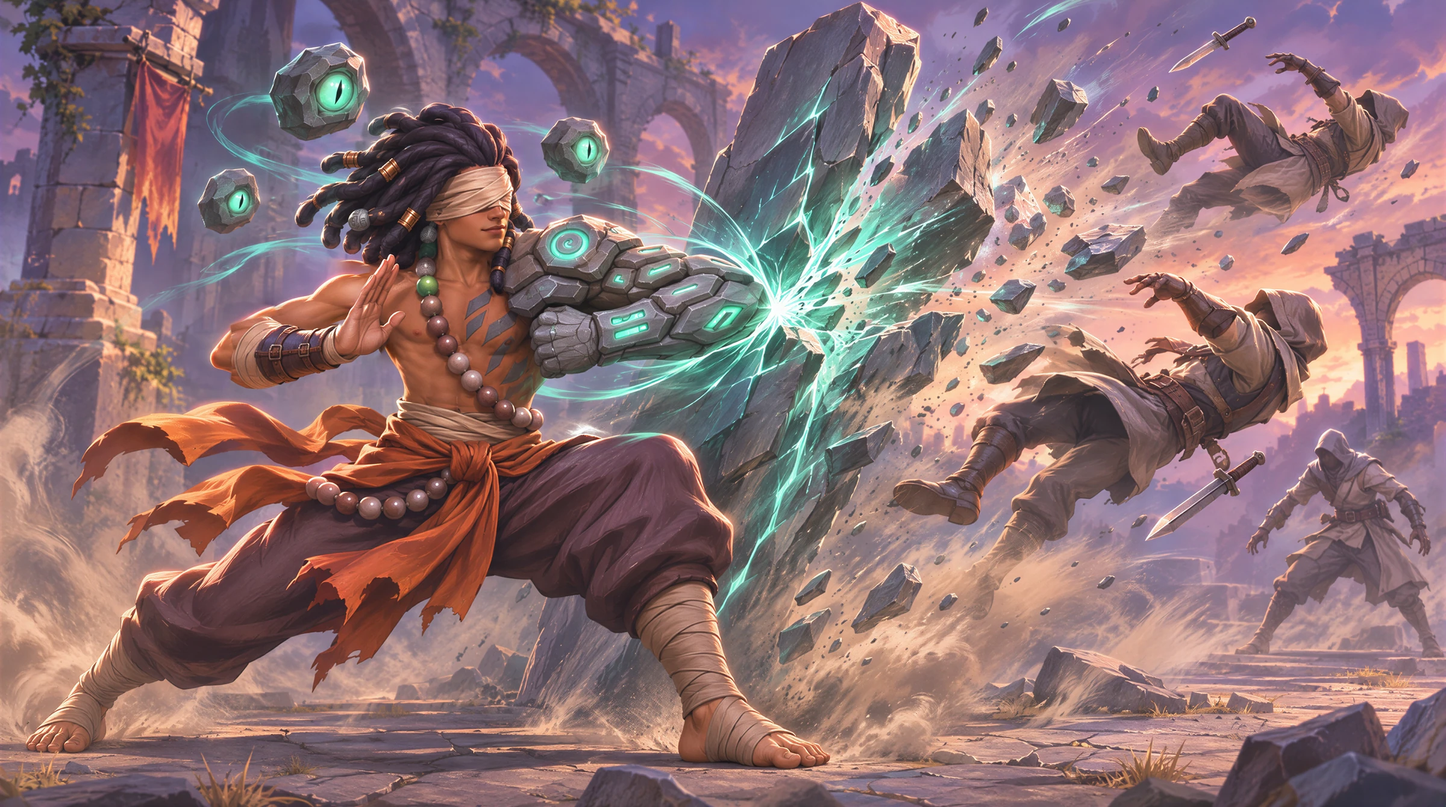
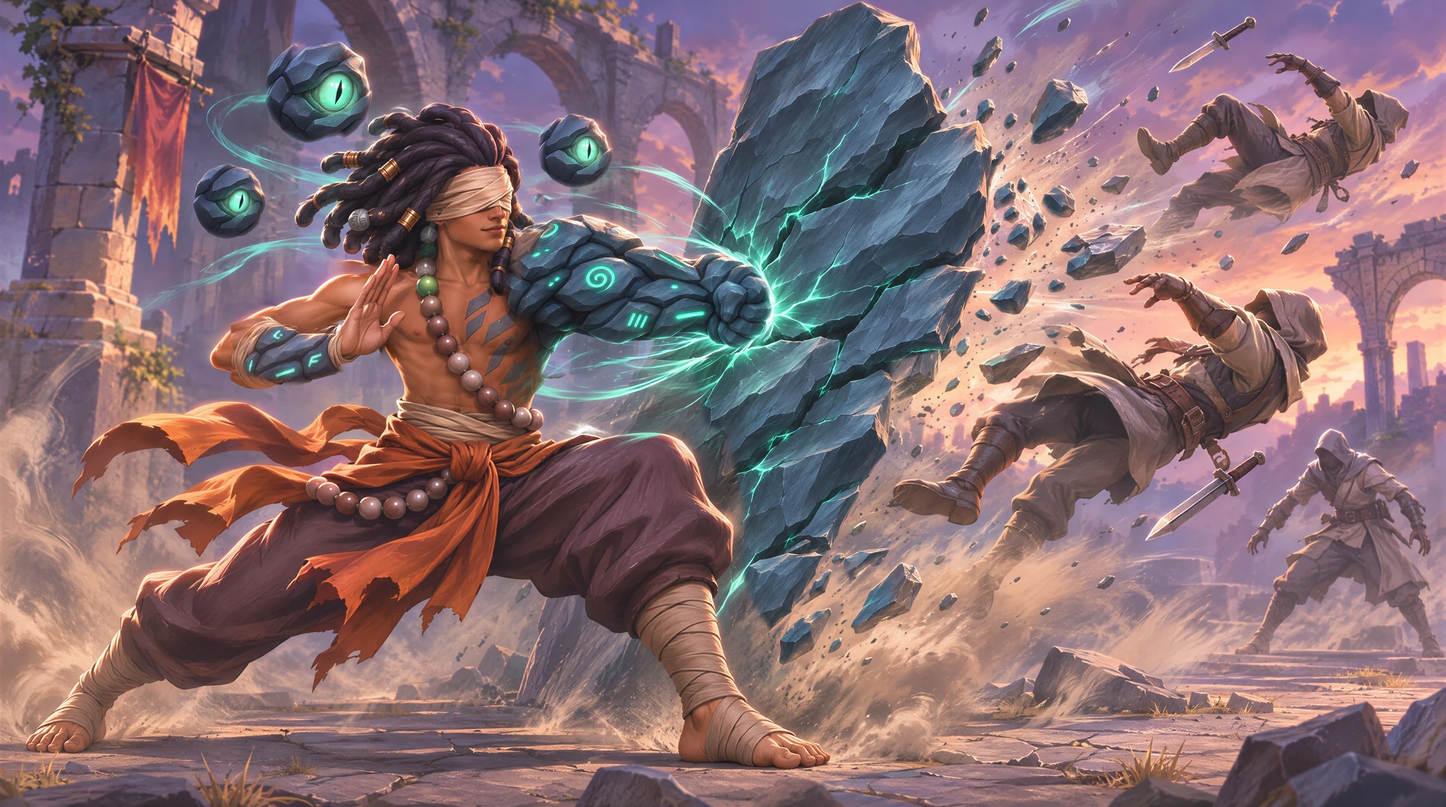
Hunter art update (cache bump 2026-11-15s44)
Claude-Session: https://claude.ai/code/session_01Fa986kEoxoUbsf7VZzVwQa

diff --git a/presskit.html b/presskit.html
@@ -11,7 +11,7 @@
 <link rel="apple-touch-icon" href="/assets/img/apple-touch-icon.png?v=2">
 <meta property="og:title" content="Project Boki press kit">
 <meta property="og:image" content="https://projectboki.com/assets/img/og.jpg?v=15">
-<link rel="stylesheet" href="assets/style.css?v=287">
+<link rel="stylesheet" href="assets/style.css?v=288">
 <link rel="canonical" href="https://projectboki.com/presskit.html">
 <link rel="manifest" href="/site.webmanifest">
 <script>
@@ -101,19 +101,19 @@
         </div>
         <h2>Hunter art</h2>
         <div class="pk-grid">
-          <a href="assets/img/hunters/lisette-2400.webp?v=2026-11-15s33" target="_blank"><img src="assets/img/hunters/lisette-960.webp?v=2026-11-15s33" alt="Lace splash art" loading="lazy"><span class="pk-cap">Lace</span></a>
-          <a href="assets/img/hunters/breaker-2400.webp?v=2026-11-15s33" target="_blank"><img src="assets/img/hunters/breaker-960.webp?v=2026-11-15s33" alt="Albert splash art" loading="lazy"><span class="pk-cap">Albert</span></a>
-          <a href="assets/img/hunters/vex-2400.webp?v=2026-11-15s33" target="_blank"><img src="assets/img/hunters/vex-960.webp?v=2026-11-15s33" alt="Vex splash art" loading="lazy"><span class="pk-cap">Vex</span></a>
-          <a href="assets/img/hunters/kael-2400.webp?v=2026-11-15s33" target="_blank"><img src="assets/img/hunters/kael-960.webp?v=2026-11-15s33" alt="Kael splash art" loading="lazy"><span class="pk-cap">Kael</span></a>
-          <a href="assets/img/hunters/claire-2400.webp?v=2026-11-15s33" target="_blank"><img src="assets/img/hunters/claire-960.webp?v=2026-11-15s33" alt="Neve splash art" loading="lazy"><span class="pk-cap">Neve</span></a>
-          <a href="assets/img/hunters/cinder-2400.webp?v=2026-11-15s33" target="_blank"><img src="assets/img/hunters/cinder-960.webp?v=2026-11-15s33" alt="Cinder splash art" loading="lazy"><span class="pk-cap">Cinder</span></a>
-          <a href="assets/img/hunters/tarek-2400.webp?v=2026-11-15s33" target="_blank"><img src="assets/img/hunters/tarek-960.webp?v=2026-11-15s33" alt="Tenzo splash art" loading="lazy"><span class="pk-cap">Tenzo</span></a>
-          <a href="assets/img/hunters/ryzz-2400.webp?v=2026-11-15s33" target="_blank"><img src="assets/img/hunters/ryzz-960.webp?v=2026-11-15s33" alt="Sparkle splash art" loading="lazy"><span class="pk-cap">Sparkle</span></a>
-          <a href="assets/img/hunters/grimble-2400.webp?v=2026-11-15s33" target="_blank"><img src="assets/img/hunters/grimble-960.webp?v=2026-11-15s33" alt="Grimble splash art" loading="lazy"><span class="pk-cap">Grimble</span></a>
-          <a href="assets/img/hunters/pip-2400.webp?v=2026-11-15s33" target="_blank"><img src="assets/img/hunters/pip-960.webp?v=2026-11-15s33" alt="Meeko splash art" loading="lazy"><span class="pk-cap">Meeko</span></a>
-          <a href="assets/img/hunters/sable-2400.webp?v=2026-11-15s33" target="_blank"><img src="assets/img/hunters/sable-960.webp?v=2026-11-15s33" alt="Sable splash art" loading="lazy"><span class="pk-cap">Sable</span></a>
-          <a href="assets/img/hunters/gill-2400.webp?v=2026-11-15s33" target="_blank"><img src="assets/img/hunters/gill-960.webp?v=2026-11-15s33" alt="Gill splash art" loading="lazy"><span class="pk-cap">Gill</span></a>
-          <a href="assets/img/hunters/motley-2400.webp?v=2026-11-15s33" target="_blank"><img src="assets/img/hunters/motley-960.webp?v=2026-11-15s33" alt="Motley splash art" loading="lazy"><span class="pk-cap">Motley</span></a>
+          <a href="assets/img/hunters/lisette-2400.webp?v=2026-11-15s44" target="_blank"><img src="assets/img/hunters/lisette-960.webp?v=2026-11-15s44" alt="Lace splash art" loading="lazy"><span class="pk-cap">Lace</span></a>
+          <a href="assets/img/hunters/breaker-2400.webp?v=2026-11-15s44" target="_blank"><img src="assets/img/hunters/breaker-960.webp?v=2026-11-15s44" alt="Albert splash art" loading="lazy"><span class="pk-cap">Albert</span></a>
+          <a href="assets/img/hunters/vex-2400.webp?v=2026-11-15s44" target="_blank"><img src="assets/img/hunters/vex-960.webp?v=2026-11-15s44" alt="Vex splash art" loading="lazy"><span class="pk-cap">Vex</span></a>
+          <a href="assets/img/hunters/kael-2400.webp?v=2026-11-15s44" target="_blank"><img src="assets/img/hunters/kael-960.webp?v=2026-11-15s44" alt="Kael splash art" loading="lazy"><span class="pk-cap">Kael</span></a>
+          <a href="assets/img/hunters/claire-2400.webp?v=2026-11-15s44" target="_blank"><img src="assets/img/hunters/claire-960.webp?v=2026-11-15s44" alt="Neve splash art" loading="lazy"><span class="pk-cap">Neve</span></a>
+          <a href="assets/img/hunters/cinder-2400.webp?v=2026-11-15s44" target="_blank"><img src="assets/img/hunters/cinder-960.webp?v=2026-11-15s44" alt="Cinder splash art" loading="lazy"><span class="pk-cap">Cinder</span></a>
+          <a href="assets/img/hunters/tarek-2400.webp?v=2026-11-15s44" target="_blank"><img src="assets/img/hunters/tarek-960.webp?v=2026-11-15s44" alt="Tenzo splash art" loading="lazy"><span class="pk-cap">Tenzo</span></a>
+          <a href="assets/img/hunters/ryzz-2400.webp?v=2026-11-15s44" target="_blank"><img src="assets/img/hunters/ryzz-960.webp?v=2026-11-15s44" alt="Sparkle splash art" loading="lazy"><span class="pk-cap">Sparkle</span></a>
+          <a href="assets/img/hunters/grimble-2400.webp?v=2026-11-15s44" target="_blank"><img src="assets/img/hunters/grimble-960.webp?v=2026-11-15s44" alt="Grimble splash art" loading="lazy"><span class="pk-cap">Grimble</span></a>
+          <a href="assets/img/hunters/pip-2400.webp?v=2026-11-15s44" target="_blank"><img src="assets/img/hunters/pip-960.webp?v=2026-11-15s44" alt="Meeko splash art" loading="lazy"><span class="pk-cap">Meeko</span></a>
+          <a href="assets/img/hunters/sable-2400.webp?v=2026-11-15s44" target="_blank"><img src="assets/img/hunters/sable-960.webp?v=2026-11-15s44" alt="Sable splash art" loading="lazy"><span class="pk-cap">Sable</span></a>
+          <a href="assets/img/hunters/gill-2400.webp?v=2026-11-15s44" target="_blank"><img src="assets/img/hunters/gill-960.webp?v=2026-11-15s44" alt="Gill splash art" loading="lazy"><span class="pk-cap">Gill</span></a>
+          <a href="assets/img/hunters/motley-2400.webp?v=2026-11-15s44" target="_blank"><img src="assets/img/hunters/motley-960.webp?v=2026-11-15s44" alt="Motley splash art" loading="lazy"><span class="pk-cap">Motley</span></a>
         </div>
         <h2>Boki art</h2>
         <div class="pk-grid pk-grid-boki" id="pk-boki" hidden></div>
@@ -151,7 +151,7 @@
   <div class="consent-b"><button class="btn btn-glass btn-sm" type="button" data-no>Decline</button><button class="btn btn-solid btn-sm" type="button" data-yes>Accept</button></div>
 </div>
 
-<script src="assets/site.js?v=321"></script>
+<script src="assets/site.js?v=322"></script>
 <script src="assets/signup.js?v=1"></script>
 <script src="/assets/topbar.js?v=7" defer></script>
 </body>

diff --git a/index.html b/index.html
@@ -78,7 +78,7 @@
 <link rel="preload" as="fetch" crossorigin="anonymous" href="assets/boki.json">
 <link rel="preload" as="image" crossorigin="anonymous" href="assets/img/wordmark-boki-1280.webp" imagesrcset="assets/img/wordmark-boki-640.webp 640w, assets/img/wordmark-boki-800.webp 800w, assets/img/wordmark-boki-1040.webp 1040w, assets/img/wordmark-boki-1280.webp 1280w, assets/img/wordmark-boki-1440.webp 1440w, assets/img/wordmark-boki-2000.webp 2000w" imagesizes="(max-width: 477px) 66vw, (max-width: 720px) 420px, (max-width: 900px) 46vw, (max-width: 1940px) 50vw, 960px">
 
-<link rel="stylesheet" href="assets/style.css?v=287">
+<link rel="stylesheet" href="assets/style.css?v=288">
 <script>
   // A refresh always starts at the top: no restored scroll, and a #section left in the address bar is dropped.
   // Links that arrive with a #section (from the press kit, say) still jump to it.
@@ -170,7 +170,7 @@
       <button class="bk-arrow prev h-arrow" type="button" id="h-prev" aria-label="Previous Hunter"><svg viewBox="0 0 24 24" aria-hidden="true"><path d="M15 5l-7 7 7 7" fill="none" stroke="currentColor" stroke-width="2.6" stroke-linecap="round" stroke-linejoin="round"/></svg></button>
       <button class="bk-arrow next h-arrow" type="button" id="h-next" aria-label="Next Hunter"><svg viewBox="0 0 24 24" aria-hidden="true"><path d="M9 5l7 7-7 7" fill="none" stroke="currentColor" stroke-width="2.6" stroke-linecap="round" stroke-linejoin="round"/></svg></button>
       <div class="bk-count h-count"><b id="h-n">01</b> / <span>13</span></div>
-      <div class="shot"><img data-zoom id="h-art" src="assets/img/hunters/vex-1600.webp?v=2026-11-15s33" srcset="assets/img/hunters/vex-960.webp?v=2026-11-15s33 960w, assets/img/hunters/vex-1600.webp?v=2026-11-15s33 1600w, assets/img/hunters/vex-2400.webp?v=2026-11-15s33 2400w" sizes="(max-width: 720px) 260vw, (max-width: 1000px) and (orientation: portrait) 150vw, (max-width: 1280px) 100vw, 1240px" alt="Vex, the Hired Gun" loading="lazy"><button class="h-expand" type="button" id="h-expand" aria-label="View full art"><svg viewBox="0 0 24 24" fill="none" stroke="currentColor" stroke-width="2.2" stroke-linecap="round" stroke-linejoin="round" aria-hidden="true"><path d="M14 4h6v6M10 20H4v-6M20 4l-6.5 6.5M4 20l6.5-6.5"/></svg></button></div>
+      <div class="shot"><img data-zoom id="h-art" src="assets/img/hunters/vex-1600.webp?v=2026-11-15s44" srcset="assets/img/hunters/vex-960.webp?v=2026-11-15s44 960w, assets/img/hunters/vex-1600.webp?v=2026-11-15s44 1600w, assets/img/hunters/vex-2400.webp?v=2026-11-15s44 2400w" sizes="(max-width: 720px) 260vw, (max-width: 1000px) and (orientation: portrait) 150vw, (max-width: 1280px) 100vw, 1240px" alt="Vex, the Hired Gun" loading="lazy"><button class="h-expand" type="button" id="h-expand" aria-label="View full art"><svg viewBox="0 0 24 24" fill="none" stroke="currentColor" stroke-width="2.2" stroke-linecap="round" stroke-linejoin="round" aria-hidden="true"><path d="M14 4h6v6M10 20H4v-6M20 4l-6.5 6.5M4 20l6.5-6.5"/></svg></button></div>
       <div class="info" aria-live="polite">
         <div class="role" id="h-role" data-role="Gunslinger">Gunslinger</div>
         <h3 id="h-name">Vex</h3>
@@ -289,7 +289,7 @@
   <symbol id="i-play" viewBox="0 0 24 24"><path d="M7 4.5v15a1 1 0 0 0 1.5.86l12.4-7.5a1 1 0 0 0 0-1.72L8.5 3.64A1 1 0 0 0 7 4.5Z"/></symbol>
 </svg>
 
-<script src="assets/site.js?v=321"></script>
+<script src="assets/site.js?v=322"></script>
 <script src="assets/signup.js?v=1"></script>
 <script src="/assets/topbar.js?v=7" defer></script>
 </body>

diff --git a/devlog.html b/devlog.html
@@ -9,7 +9,7 @@
 <link rel="icon" href="/favicon.ico?v=2" sizes="any">
 <link rel="icon" href="/assets/img/favicon.png?v=2" type="image/png">
 <link rel="apple-touch-icon" href="/assets/img/apple-touch-icon.png?v=2">
-<link rel="stylesheet" href="assets/style.css?v=287">
+<link rel="stylesheet" href="assets/style.css?v=288">
 <link rel="canonical" href="https://projectboki.com/devlog.html">
 <link rel="manifest" href="/site.webmanifest">
 <script>
@@ -62,7 +62,7 @@
       <article class="dl-post" id="hunter-kits">
         <time datetime="2026-11-09">November 9, 2026</time>
         <h2>Hunter kits are on the site</h2>
-        <a class="dl-img" href="index.html#hunters"><img src="assets/img/hunters/breaker-1600.webp?v=2026-11-15s33" width="1600" height="893" alt="Albert, the Barnacle Knight" loading="lazy"></a>
+        <a class="dl-img" href="index.html#hunters"><img src="assets/img/hunters/breaker-1600.webp?v=2026-11-15s44" width="1600" height="893" alt="Albert, the Barnacle Knight" loading="lazy"></a>
         <p>Tap Abilities on any Hunter to see their full kit: weapon, passive, dash, both abilities and their ultimate.</p>
         <p>The kits come straight from the game files, so they stay current as we tune each Hunter.</p>
       </article>
@@ -90,7 +90,7 @@
   <div class="consent-b"><button class="btn btn-glass btn-sm" type="button" data-no>Decline</button><button class="btn btn-solid btn-sm" type="button" data-yes>Accept</button></div>
 </div>
 
-<script src="assets/site.js?v=321"></script>
+<script src="assets/site.js?v=322"></script>
 <script src="assets/signup.js?v=1"></script>
 <script src="/assets/topbar.js?v=7" defer></script>
 </body>

diff --git a/privacy.html b/privacy.html
@@ -9,7 +9,7 @@
 <link rel="icon" href="/favicon.ico?v=2" sizes="any">
 <link rel="icon" href="/assets/img/favicon.png?v=2" type="image/png">
 <link rel="apple-touch-icon" href="/assets/img/apple-touch-icon.png?v=2">
-<link rel="stylesheet" href="assets/style.css?v=287">
+<link rel="stylesheet" href="assets/style.css?v=288">
 <link rel="canonical" href="https://projectboki.com/privacy.html">
 <link rel="manifest" href="/site.webmanifest">
 <script>
@@ -99,7 +99,7 @@
   <div class="consent-b"><button class="btn btn-glass btn-sm" type="button" data-no>Decline</button><button class="btn btn-solid btn-sm" type="button" data-yes>Accept</button></div>
 </div>
 
-<script src="assets/site.js?v=321"></script>
+<script src="assets/site.js?v=322"></script>
 <script src="assets/signup.js?v=1"></script>
 <script src="/assets/topbar.js?v=7" defer></script>
 </body>

diff --git a/assets/site.js b/assets/site.js
@@ -192,7 +192,7 @@ if (heroIn && !calm) {
 
 /* ---------- Hunters: pick a Mask ---------- */
 // [id, name, title, has an up-to-date in-game model, role (from the kit's role line in the game)]
-const ART_V = "2026-11-15s33"; // bump when a Hunter splash changes
+const ART_V = "2026-11-15s44"; // bump when a Hunter splash changes
 // order 11-15 owner (r3: Grimble before Cinder): Kael Lace Albert = kingsguard trio (Cinder is not kingsguard); Sable last so Gill splits the purples (Motley/Sable)
 const HUNTERS = [
   ["vex", "Vex", "The Hired Gun", true, "Gunslinger"],

diff --git a/2d/old.html b/2d/old.html
@@ -6,7 +6,7 @@
 <meta name="robots" content="noindex,nofollow">
 <title>Boki 2D Art · Project Boki</title>
 <link rel="icon" href="/favicon.ico" sizes="any">
-<link rel="stylesheet" href="/assets/style.css?v=287">
+<link rel="stylesheet" href="/assets/style.css?v=288">
 <style>
 /* Upload room for 2D Boki art. Same password as /3d. Uploads commit straight to the website repo through the
    GitHub API, so they go live on the next Pages build (about a minute). */

diff --git a/404.html b/404.html
@@ -7,7 +7,7 @@
 <link rel="icon" href="/favicon.ico?v=2" sizes="any">
 <link rel="icon" href="/assets/img/favicon.png?v=2" type="image/png">
 <link rel="apple-touch-icon" href="/assets/img/apple-touch-icon.png?v=2">
-<link rel="stylesheet" href="/assets/style.css?v=287">
+<link rel="stylesheet" href="/assets/style.css?v=288">
 </head>
 <body>
 <header class="nav" id="nav">
